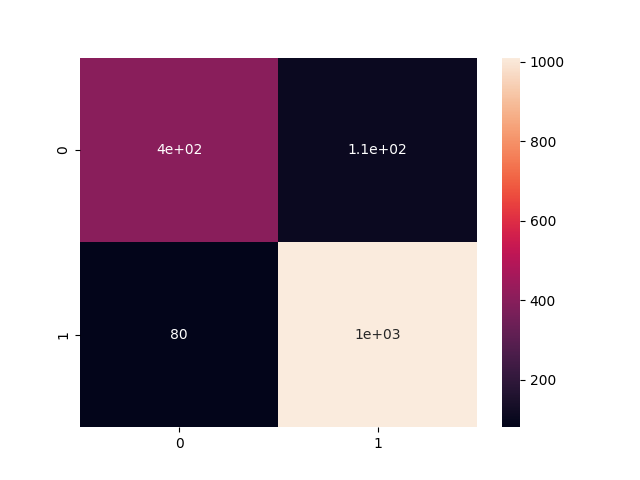
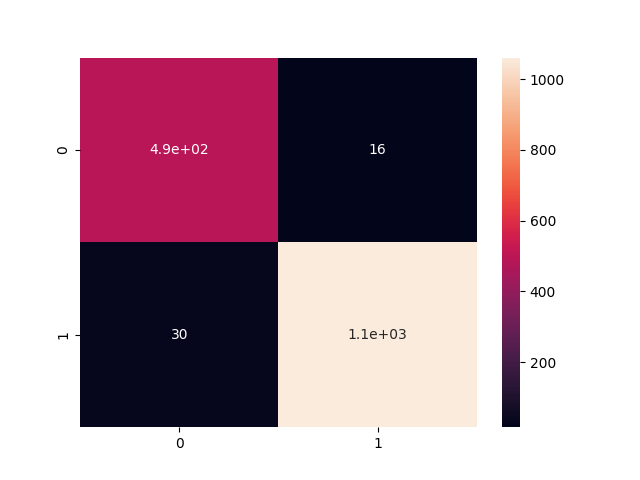
complete resnet 18

diff --git a/README.md b/README.md
@@ -21,5 +21,5 @@ pip install -r requirements.txt
 3. Run the code
 
 ```bash
-python3 main.py --resnet 18 --batch_size 32 --dim 256 --epoch 1000 --lr 0.0001 --val --checkpoint
+python3 main.py --resnet 18 --batch_size 32 --dim 256 --val --checkpoint checkpoicheckpoint/resnet18-epoch955-acc98.81.pt
 ```
